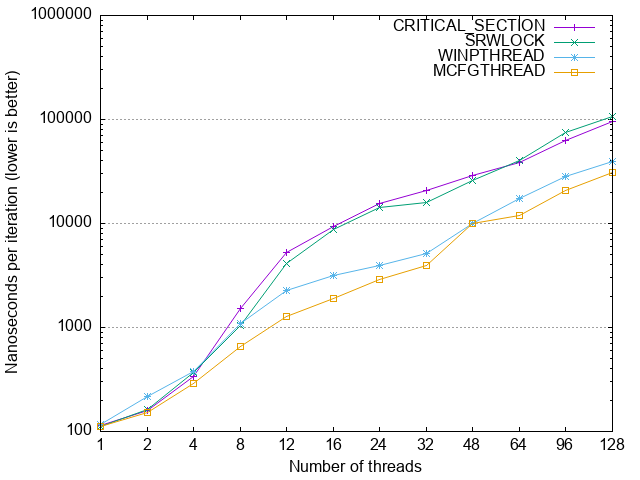
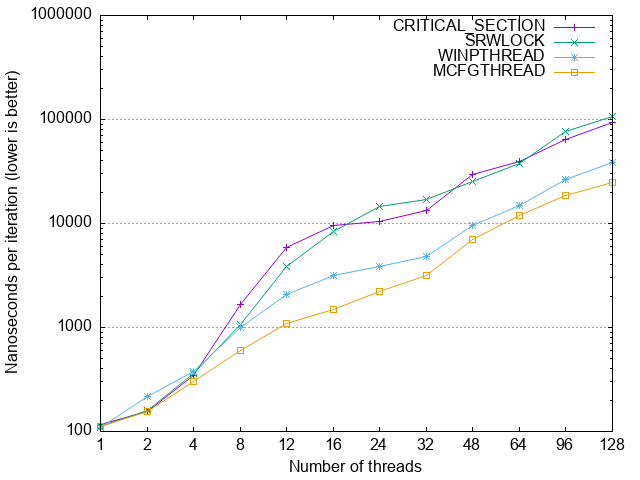
doc: doc: Update benchmark result on AMD Ryzen 9 9950X3D [no ci]

diff --git a/README.md b/README.md
@@ -18,7 +18,7 @@ This is the result of [a benchmark program](doc/benchmark_mutex.c) on Windows
 
 ![benchmark_result_win11_26200_i9_14900k](doc/benchmark_result_win11_26200_i9_14900k.png)
 
-This is the result on Windows 11 (25H2, build 26200.8246) on an AMD Ryzen 9
+This is the result on Windows 11 (25H2, build 26200.8655) on an AMD Ryzen 9
 9950X3D desktop processor (16 cores, 32 threads; special thanks to @fredyakumo
 for testing!):
 